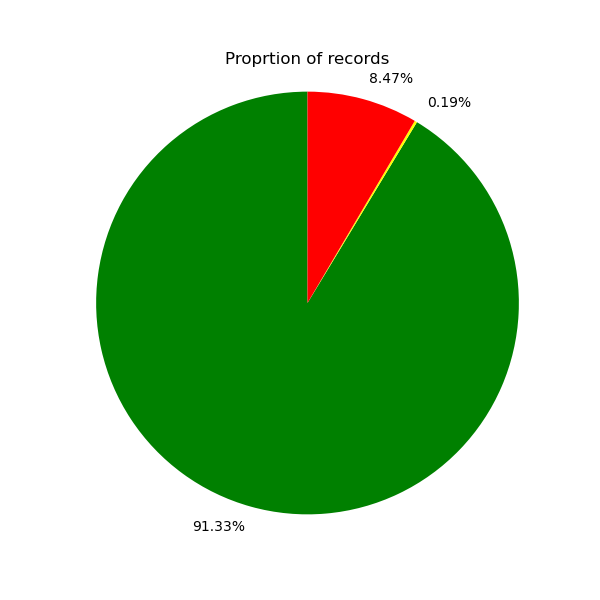
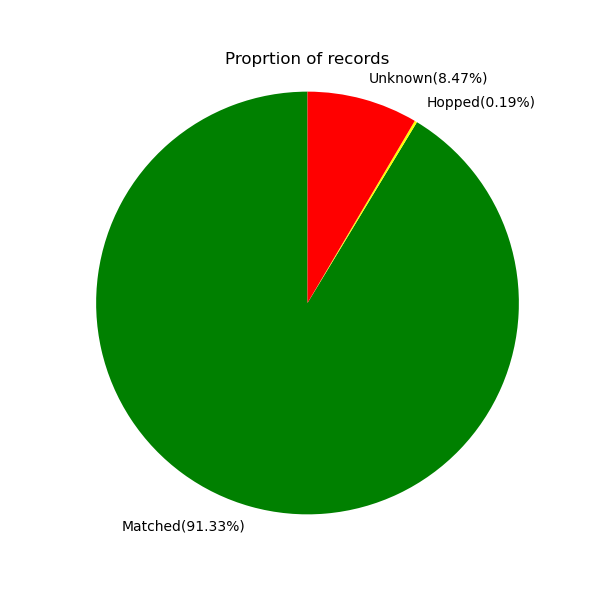
pushing my beautiful script for my beautiful heatmap and meh piechart

Changed region(s): [[0.6, 0.12, 0.9, 0.18], [0.21, 0.87, 0.42, 0.9]]

diff --git a/Assignment-the-third/figures.py b/Assignment-the-third/figures.py
@@ -1,0 +1,102 @@
+#!/usr/bin/env python
+import matplotlib.pyplot as plt
+
+labels = ['Matched(91.33%)', 'Hopped(0.19%)', 'Unknown(8.47%)']
+sizes = [91.33, 0.19, 8.47]
+colors = ['green', 'yellow', 'red']   
+
+# Plot
+plt.figure(figsize=(6,6))
+plt.pie(sizes, labels=labels, colors=colors,startangle=90)
+plt.title("Proprtion of records")
+plt.axis('equal')
+plt.savefig('piechart.png')
+plt.close() 
+
+
+#Heatmap
+
+import numpy as np
+
+matrix = []
+index_names = []
+
+with open("./RESULTS/matrix.txt", "r") as f:
+    lines = f.readlines()
+
+# First line = column headers...so we shall skip ittttt
+for line in lines[1:]:
+    parts = line.strip().split()         # Splits on any whitespace
+    row_label = parts[0]                 # First item = row index
+    index_names.append(row_label)        # Save the row label
+    row_values = list(map(int,parts[1:]))  # Convert rest of line to integers
+    matrix.append(row_values)
+
+matrix = np.array(matrix)
+    
+#Heatmap
+fig, ax = plt.subplots(figsize=(10, 6))
+im = ax.imshow(matrix, cmap = "plasma", norm = "log")
+
+# Show all ticks and label them with the respective list entries
+ax.set_xticks(range(len(index_names)), labels=index_names,
+              rotation=45, ha="right", rotation_mode="anchor")
+ax.set_yticks(range(len(index_names)), labels=index_names)
+
+plt.colorbar(im, ax=ax)
+ax.set_title("Log Heatmap of Index Combination Counts")
+fig.tight_layout()
+plt.savefig("heatmap.png")
+
+
+
+
+
+
+
+
+
+
+
+
+
+
+
+
+
+
+
+
+
+
+
+
+
+
+
+
+
+
+
+
+
+
+
+
+
+
+
+
+
+
+
+
+
+
+
+
+
+
+
+
+
